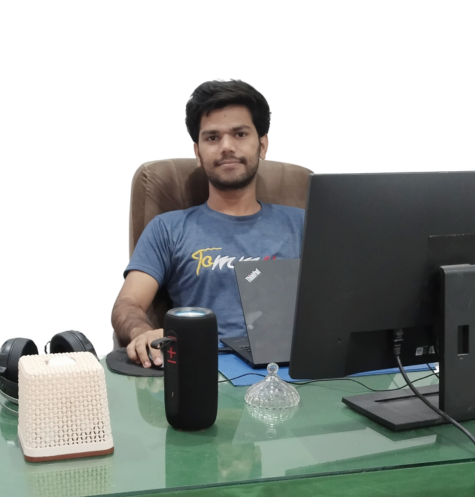
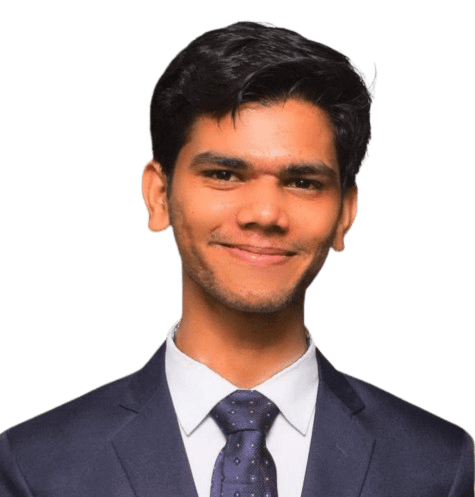
changes

diff --git a/assets/css/style.css b/assets/css/style.css
@@ -1342,8 +1342,7 @@ textarea.form-input::-webkit-resizer { display: none; }
 
   .avatar-box { border-radius: 30px; }
 
-  .avatar-box img { width: 120px; border-radius: 25px;
-    transform: translate(10px, 10px); }
+  .avatar-box img { width: 120px; border-radius: 25px; }
 
   .info-content .name { margin-bottom: 15px; }
 
@@ -1839,8 +1838,7 @@ textarea.form-input::-webkit-resizer { display: none; }
 
   .sidebar-info { flex-direction: column; }
 
-  .avatar-box img { width: 150px; border-radius: 25px;
-    transform: translate(10px, 10px); }
+  .avatar-box img { width: 150px; border-radius: 25px; }
 
   .info-content .name {
     white-space: nowrap;
